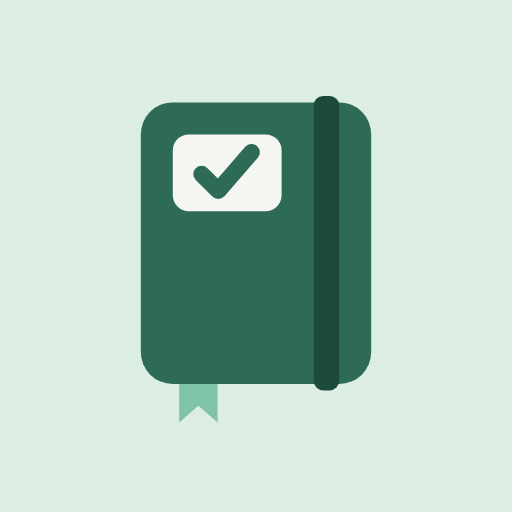
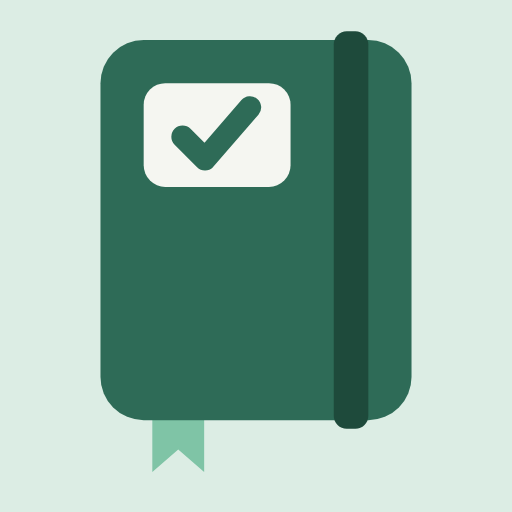
Beta 0.1.2: App-Symbol größer, Symbole getrennt für Beta und Hauptversion
Claude-Session: https://claude.ai/code/session_01ByX639eAAUqTGRY5PEU8eA

diff --git a/beta/sw.js b/beta/sw.js
@@ -1,5 +1,5 @@
 // Offline-Betrieb: App-Dateien zwischenspeichern. Neue Versionen werden beim nächsten Online-Start geladen.
-const C="somi-beta-0.1.1",FILES=["./","index.html","manifest.webmanifest","icon-180.png","icon-192.png","icon-512.png"];
+const C="somi-beta-0.1.2",FILES=["./","index.html","manifest.webmanifest","icon-180.png","icon-192.png","icon-512.png"];
 self.addEventListener("install",e=>{e.waitUntil(caches.open(C).then(c=>c.addAll(FILES)));self.skipWaiting()});
 self.addEventListener("activate",e=>{e.waitUntil(caches.keys().then(ks=>Promise.all(ks.filter(k=>k!==C&&k.startsWith("somi-beta")).map(k=>caches.delete(k)))));self.clients.claim()});
 self.addEventListener("fetch",e=>{if(e.request.method!=="GET")return;

diff --git a/beta/index.html b/beta/index.html
@@ -100,7 +100,7 @@ body.locked #app,body.locked #nav,body.locked .cele:not(.lockdlg),body.locked .t
 "use strict";
 /* ===== Speicher =====
    Technik-Kern übernommen aus Pfad 1.1.3 (hbg-pfad/pfad, quelle/pfad.html). Liste der Bausteine: docs/technik-aus-pfad.md */
-const SOMI_VERSION="0.1.1 Beta",SOMI_STAND="03.11.2026";
+const SOMI_VERSION="0.1.2 Beta",SOMI_STAND="03.11.2026";
 const KEY="somi-beta";
 const FAECHER=["Mathe","Sport"];
 const KURSE={"-":"ohne Kurs","E":"E-Kurs","G":"G-Kurs"};

diff --git a/quelle/somi.html b/quelle/somi.html
@@ -99,7 +99,7 @@ body.locked #app,body.locked #nav,body.locked .cele:not(.lockdlg),body.locked .t
 "use strict";
 /* ===== Speicher =====
    Technik-Kern übernommen aus Pfad 1.1.3 (hbg-pfad/pfad, quelle/pfad.html). Liste der Bausteine: docs/technik-aus-pfad.md */
-const SOMI_VERSION="0.1.1",SOMI_STAND="03.11.2026";
+const SOMI_VERSION="0.1.2",SOMI_STAND="03.11.2026";
 const KEY="somi-v1";
 const FAECHER=["Mathe","Sport"];
 const KURSE={"-":"ohne Kurs","E":"E-Kurs","G":"G-Kurs"};

diff --git a/werkzeuge/beta-bauen.py b/werkzeuge/beta-bauen.py
@@ -20,7 +20,7 @@ rep('<body>', '<body><div class="betab" aria-label="Beta-Version">BETA</div>')
 out = repo / "beta"; out.mkdir(exist_ok=True)
 (out / "index.html").write_text(s)
 for f in ["icon-180.png", "icon-192.png", "icon-512.png"]:
-    shutil.copy(repo / f, out / f)
+    shutil.copy(repo / "quelle" / "icons" / f, out / f)
 m = (repo / "manifest.webmanifest").read_text().replace('"name":"SoMi","short_name":"SoMi"', '"name":"SoMi Beta","short_name":"SoMi Beta"')
 assert "SoMi Beta" in m
 (out / "manifest.webmanifest").write_text(m)

diff --git a/werkzeuge/hauptversion-freigeben.py b/werkzeuge/hauptversion-freigeben.py
@@ -8,6 +8,8 @@ assert cache.startswith("somi-") and not cache.startswith("somi-beta"), "Cache-N
 src = repo / "quelle" / "somi.html"
 assert 'const KEY="somi-v1";' in src.read_text(), "Speicher-Schlüssel der Hauptversion fehlt"
 shutil.copy(src, repo / "index.html")
+for f in ["icon-180.png", "icon-192.png", "icon-512.png"]:
+    shutil.copy(repo / "quelle" / "icons" / f, repo / f)
 sw = (repo / "sw.js").read_text()
 sw, n = re.subn(r'const C="[^"]+"', f'const C="{cache}"', sw, count=1)
 assert n == 1

diff --git a/CLAUDE.md b/CLAUDE.md
@@ -51,7 +51,7 @@ Weicht der Code von diesen Dateien ab, gilt der Code. Weise auf die Abweichung h
 ## Gestaltung
 
 - SoMi ist Nicks eigene App, NICHT im Sopäd-Team-Design. Eigene Farbe „Tafelgrün“: Akzent #2E6B57 (dunkel #7FC4A6), Grund #F5F6F1 (dunkel #14201B), Fläche #DCEDE4. Senfgelb (`--sig`) bleibt Signalfarbe.
-- Logo: grünes Notenheft, kleines Etikett mit Haken links oben, dunkles Gummiband rechts, blasses Lesebändchen schaut unten heraus (`somi-logo.svg`, `LOGO` in `quelle/somi.html`, Icons daraus).
+- Logo: grünes Notenheft, kleines Etikett mit Haken links oben, dunkles Gummiband rechts, blasses Lesebändchen schaut unten heraus (`somi-logo.svg`, `LOGO` in `quelle/somi.html`). App-Symbole liegen in `quelle/icons/`; die Bauwerkzeuge kopieren sie nach `beta/` bzw. in den Hauptordner.
 - Formen, Abstände und Bausteine wie Pfad-Design B.
 - Systemschrift, Tippziele mind. 40 px, Schrift in Feldern mind. 16 px, eigene Dialoge statt `confirm`/`prompt`.
 - Noten nie sichtbar, wenn das iPad am Beamer hängen könnte (Sichtschutz-Knopf ab Version 0.2).

diff --git a/AENDERUNGEN.md b/AENDERUNGEN.md
@@ -4,5 +4,6 @@ Neueste oben.
 
 | Datum | Version | Was | Beta/Haupt |
 |---|---|---|---|
+| 03.11.2026 | 0.1.2 | App-Symbol größer (Heft füllt das Symbol). Symbole liegen jetzt in `quelle/icons/`, Beta und Hauptversion kopieren sie beim Bauen. | Beta |
 | 03.11.2026 | 0.1.1 | Eigene Farbgebung „Tafelgrün“ statt Pfad-Farben, neues Logo (Notenheft mit Gummiband und Lesebändchen), neue Icons | Beta + Haupt |
 | 03.11.2026 | 0.1.0 | Grundgerüst: Technik-Kern aus Pfad 1.1.3, Lerngruppen (Mathe/Sport, Kurs), Kürzel mit Profil, App-Sperre als Einrichtungsschritt, verschlüsselte Sicherung, Archiv mit Aufbewahrungsfrist, fiktive Beispielklasse, Rauchtest | Beta |
